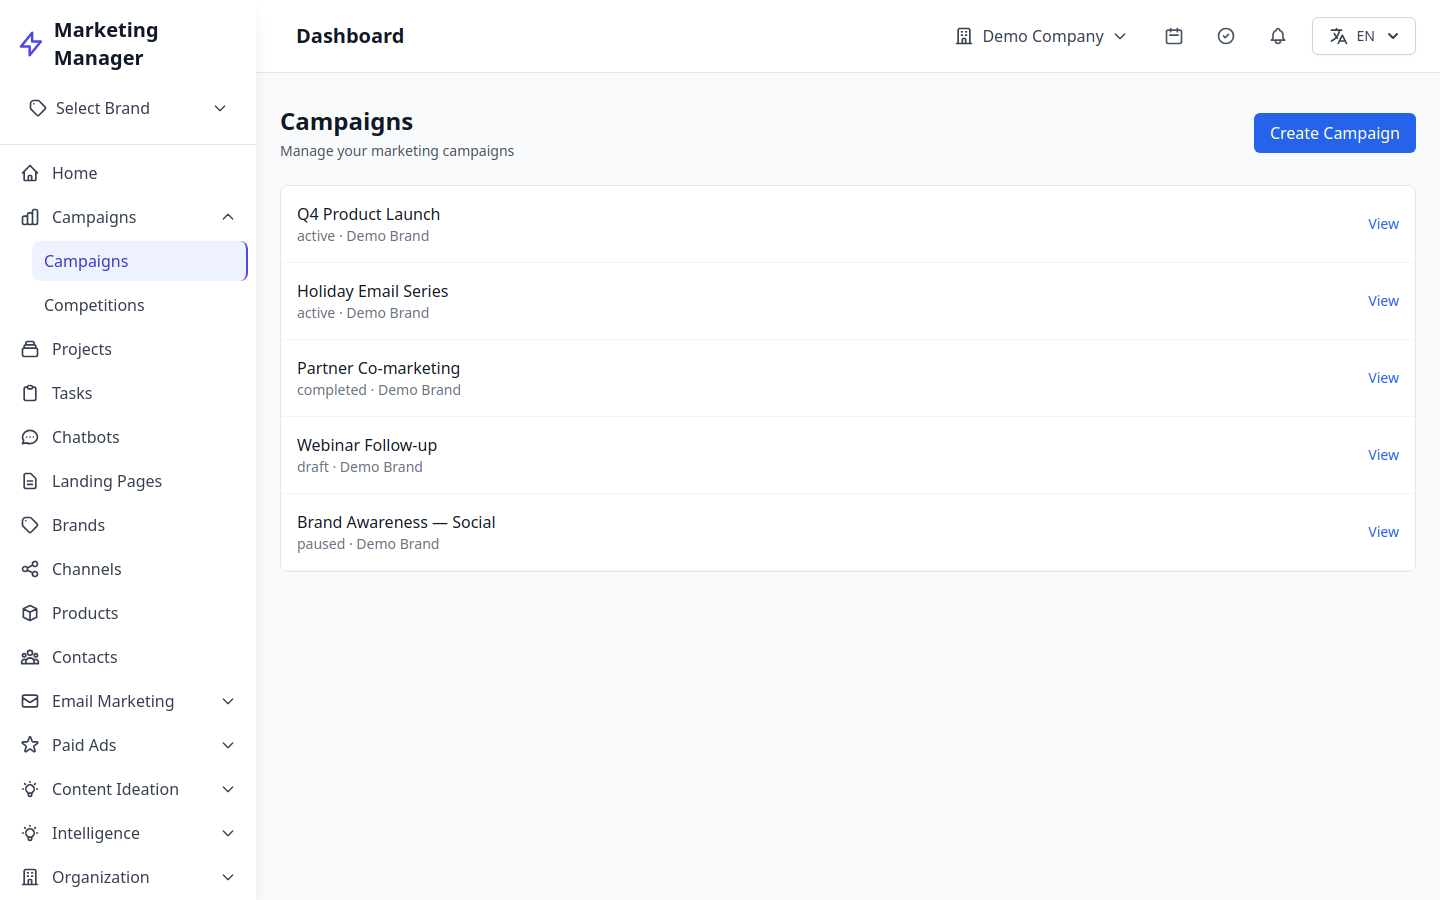
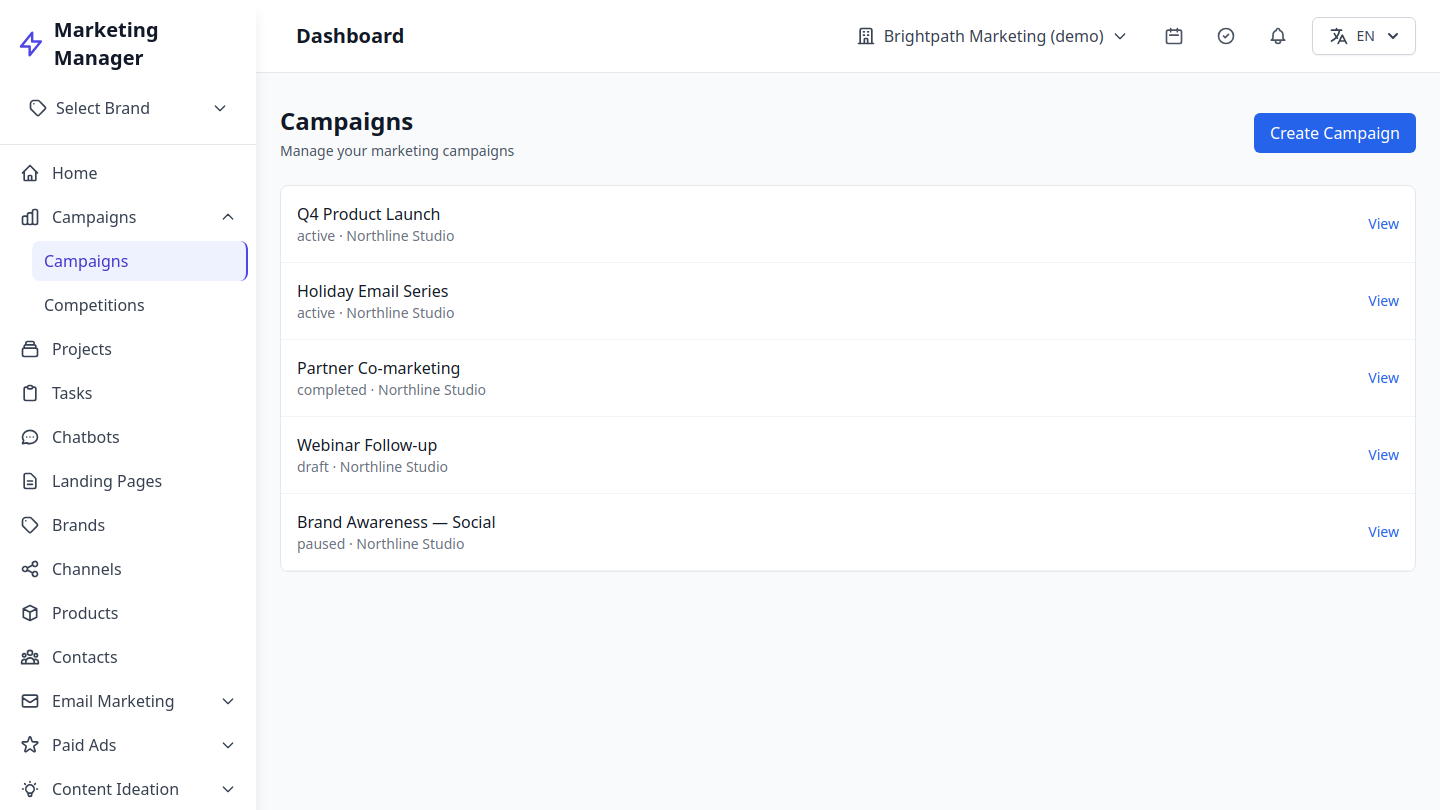
fix(public): recapture home marketing screenshots from demo app
- Enrich demo org/brand names and kanban seed data for screenshot-friendly UI
- Default Inertia app name to Marketing Manager via VITE_APP_NAME
- Recapture hero-dashboard and product-workspace PNGs from local demo routes
- Add PublicMarketingImagesTest and update QaBlockers org label

diff --git a/resources/js/Layouts/GuestLayout.tsx b/resources/js/Layouts/GuestLayout.tsx
@@ -9,6 +9,8 @@ interface GuestLayoutProps {
     children: ReactNode;
 }
 
+const appName = import.meta.env.VITE_APP_NAME ?? 'Marketing Manager';
+
 export default function GuestLayout({ title, subtitle, children }: GuestLayoutProps) {
     return (
         <>
@@ -17,7 +19,7 @@ export default function GuestLayout({ title, subtitle, children }: GuestLayoutPr
                 <div className="w-full max-w-md">
                     <div className="mb-8 text-center">
                         <Link href={route('home')} className="text-2xl font-bold text-gray-900">
-                            MarketPulse
+                            {appName}
                         </Link>
                         {subtitle ? <p className="mt-2 text-sm text-gray-600">{subtitle}</p> : null}
                     </div>

diff --git a/resources/js/Layouts/MinimalAuthenticatedLayout.tsx b/resources/js/Layouts/MinimalAuthenticatedLayout.tsx
@@ -8,6 +8,8 @@ interface MinimalAuthenticatedLayoutProps {
     children: ReactNode;
 }
 
+const appName = import.meta.env.VITE_APP_NAME ?? 'Marketing Manager';
+
 export default function MinimalAuthenticatedLayout({
     title,
     children,
@@ -19,7 +21,7 @@ export default function MinimalAuthenticatedLayout({
                 <header className="border-b border-gray-200 bg-white">
                     <div className="mx-auto flex max-w-3xl items-center justify-between px-4 py-4">
                         <Link href={route('home')} className="text-lg font-bold text-gray-900">
-                            MarketPulse
+                            {appName}
                         </Link>
                         <Link
                             href={route('main.organizations')}

diff --git a/resources/js/inertia/app.tsx b/resources/js/inertia/app.tsx
@@ -3,7 +3,7 @@ import { createInertiaApp } from '@inertiajs/react';
 import { createRoot } from 'react-dom/client';
 import { resolvePageComponent } from 'laravel-vite-plugin/inertia-helpers';
 
-const appName = import.meta.env.VITE_APP_NAME ?? 'MarketPulse';
+const appName = import.meta.env.VITE_APP_NAME ?? 'Marketing Manager';
 
 createInertiaApp({
     title: (title) => (title ? `${title} - ${appName}` : appName),

diff --git a/database/seeders/DemoDataSeeder.php b/database/seeders/DemoDataSeeder.php
@@ -26,11 +26,15 @@ class DemoDataSeeder extends Seeder
         $organization = Organization::firstOrCreate(
             ['slug' => 'demo-company'],
             [
-                'name' => 'Demo Company',
+                'name' => 'Brightpath Marketing (demo)',
                 'timezone' => 'UTC',
                 'status' => 'active',
             ]
         );
+        $organization->update([
+            'name' => 'Brightpath Marketing (demo)',
+            'status' => 'active',
+        ]);
 
         $adminRole = Role::where('name', 'admin')->first();
 
@@ -62,13 +66,17 @@ class DemoDataSeeder extends Seeder
         }
 
         $brand = Brand::firstOrCreate(
-            ['organization_id' => $organization->id, 'name' => 'Demo Brand'],
+            ['organization_id' => $organization->id, 'name' => 'Northline Studio'],
             [
-                'summary' => 'Demo brand for testing the main application.',
+                'summary' => 'Fictional demo brand for marketing screenshots (no customer data).',
                 'status' => 'active',
                 'tone_of_voice' => 'professional',
             ]
         );
+        $brand->update([
+            'summary' => 'Fictional demo brand for marketing screenshots (no customer data).',
+            'status' => 'active',
+        ]);
 
         $campaignDefinitions = [
             [
@@ -212,6 +220,7 @@ class DemoDataSeeder extends Seeder
         $taskDefinitions = [
             ['title' => 'Draft launch email #1', 'status' => 'todo', 'priority' => 'high'],
             ['title' => 'Approve social ad sets', 'status' => 'todo', 'priority' => 'medium'],
+            ['title' => 'Brief agency on Q4 creative', 'status' => 'todo', 'priority' => 'low'],
             ['title' => 'Update landing page hero', 'status' => 'in_progress', 'priority' => 'high'],
             ['title' => 'Schedule webinar reminders', 'status' => 'in_progress', 'priority' => 'medium'],
             ['title' => 'Review Q4 budget spreadsheet', 'status' => 'in_progress', 'priority' => 'low'],

diff --git a/tests/Feature/PublicMarketingImagesTest.php b/tests/Feature/PublicMarketingImagesTest.php
@@ -1,0 +1,23 @@
+<?php
+
+declare(strict_types=1);
+
+namespace Tests\Feature;
+
+use Tests\TestCase;
+
+class PublicMarketingImagesTest extends TestCase
+{
+    public function test_home_marketing_images_exist_and_are_non_empty(): void
+    {
+        $paths = [
+            public_path('images/marketing/hero-dashboard.png'),
+            public_path('images/marketing/product-workspace.png'),
+        ];
+
+        foreach ($paths as $path) {
+            $this->assertFileExists($path, "Missing marketing image: {$path}");
+            $this->assertGreaterThan(50_000, filesize($path), "Marketing image too small: {$path}");
+        }
+    }
+}

diff --git a/tests/Feature/QaBlockersTest.php b/tests/Feature/QaBlockersTest.php
@@ -15,7 +15,7 @@ class QaBlockersTest extends TestCase
         $this->actingAs($user)
             ->get(route('main.organizations'))
             ->assertOk()
-            ->assertSee('Demo Company');
+            ->assertSee('Brightpath Marketing (demo)');
     }
 
     public function testProfileShowViewLoads(): void
